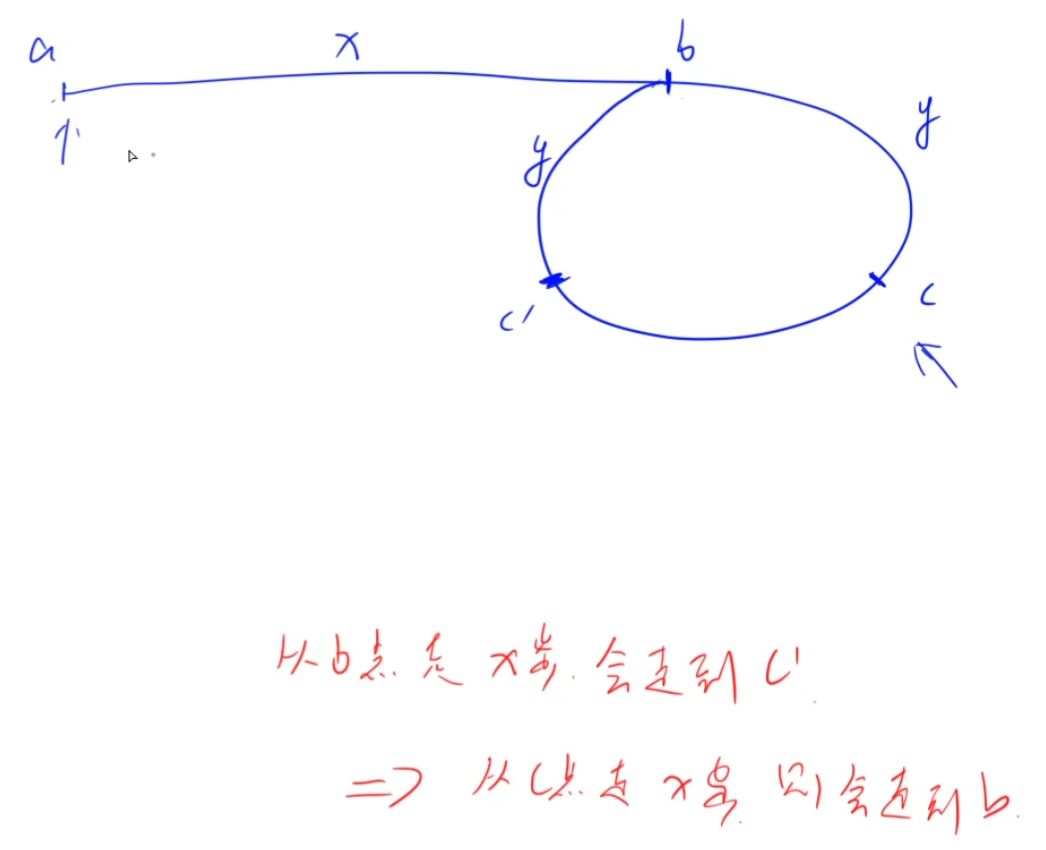
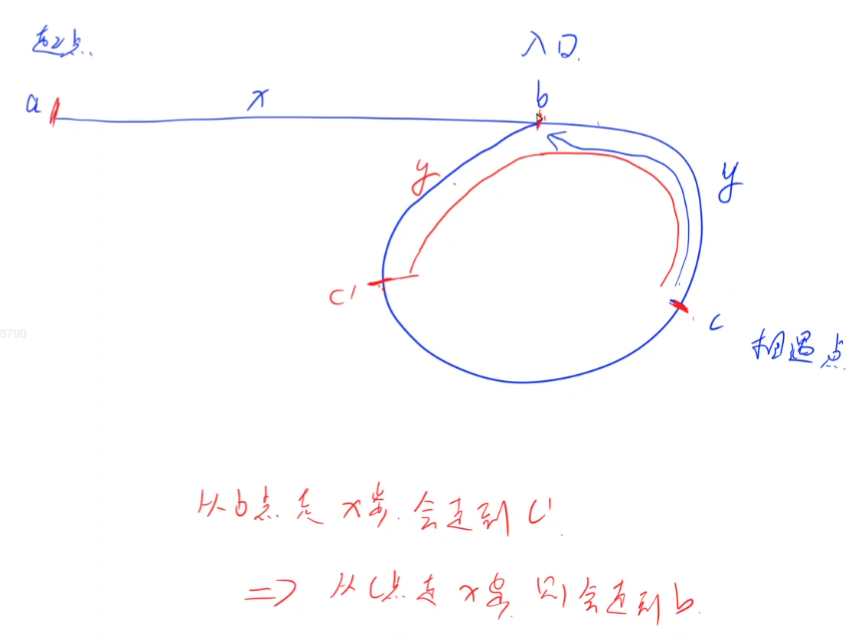
20230618

diff --git a/笔记/2.数据结构.md b/笔记/2.数据结构.md
@@ -327,11 +327,69 @@ public:
 - 与上一题完全相同
 
 :rocket:  **[LeetCode 876. 链表的中间节点](https://leetcode.cn/problems/middle-of-the-linked-list/)**
-- 注意针对链表中奇数个或偶数个元素进行分情况讨论循环终止条件
+- 方法一：先计算链表长度，然后再将指向头节点的指针向后移动长度的一半次
+- 方法二：快慢指针法，快指针的速度是慢指针的二倍，当快指针走到链表尾部时，慢指针指向的节点即为中间节点
+
+:rocket:  **[LeetCode 141. 环形链表](https://leetcode.cn/problems/linked-list-cycle/)**
+- 方法一：快慢双指针，快指针的速度是慢指针的二倍，如果链表中存在环，则快指针一定可以在套若干圈之后追上慢指针，题目也只要求判断是否有环，不要求找到环的入口节点，所以这种做法可以满足题意
+![](./图片2/环形链表.png)
+```C++
+if (!head || !head->next) return false;
+// 如果是空链表或链表中只有一个节点则一定无环
+auto p = head, q = head;
+
+// 做法一：进入循环时只判断快指针所指向的节点是否为空，因此不一定能连走两步
+// 必须先走一步判断是否为空才能决定能不能走下一步
+while (q){
+    p = p->next, q = q->next;
+    // 两个节点组成的链表可能有环也可能无环
+    if (!q) return false;
+    // 快慢指针同时向后移动一步之后先判断是否为空
+    // 防止由奇数个节点组成的无环链表连走两步时指针为空
+    q = q->next;
+    if (p == q) return true;
+    //如果快慢两个指针可以相遇则链表中一定有环
+}
+
+/*做法二：在进入循环时判断快指针的下一个节点是否为空
+while (q && q->next){
+    p = p->next, q = q->next->next;
+    // 在进入循环时已判断快指针的下一个节点是否为空，因此无论什么情况都可以连走两步
+    if (!q) return false;
+    if (p == q) return true;
+}
+*/
+return false;
+```
+
+- 方法二：哈希表，遍历链表，将每个节点的地址存入哈希表，如果遍历到的节点地址已经在哈希表中，则说明链表中存在环
+
+:rocket:  **[LeetCode 142. 环形链表 II](https://leetcode.cn/problems/linked-list-cycle-ii/)**
+- 快慢双指针，快指针的速度为慢指针速度的二倍。记快慢指针的相遇点为c点，记双指针同时出发的时刻为$t$<sub>1</sub>，记慢指针到达环形入口的时刻为$t$<sub>2</sub>，快慢双指针相遇的时刻为$t$<sub>3</sub>。$t$<sub>1</sub> ~ $t$<sub>2</sub>，慢指针a->b，快指针a->c'；$t$<sub>2</sub> ~ $t$<sub>3</sub>，慢指针b->c，快指针c'->c。所以当快慢指针相遇时，让其中一个指针回到原点，以同速前进，再次相遇时则为入口
+![](./图片2/环形链表2.png)
+- 快慢双指针可以采用上一题中第二种`while()`循环的方式，也作为一种模板记忆，所以就是在上一题当快慢指针相遇时，让慢指针回退到起点再以相同的速度前进，再次相遇即为环的入口
+```C++
+if (!head || !head->next) return NULL;
+auto p = head, q = head;
+while (q && q->next) {
+    p = p->next;
+    q = q->next->next;
+    if (!q) return NULL;
+    if (p == q) {
+        p = head;
+        while (p != q) {
+            p = p->next;
+            q = q->next;
+        }
+        return p;
+    }
+}
+return NULL;
+```
 
 :rocket:  **[LeetCode 160. 相交链表](https://leetcode.cn/problems/intersection-of-two-linked-lists/)**
-- 方法一：逻辑上把两个链表连接到一起
-- 方法二：先计算两条链表的长度，然后让双指针移动到距离链表尾部的距离相同的位置
+- 方法一：逻辑上把两个链表连接到一起，让两个指针分别从两个链表的头节点出发，当走到本链表尾节点时从另一个链表的头节点再出发，这样两个指针相遇(即指向相交节点)时走的距离一定相同
+![](./图片2/相交链表1.png)
 
 :rocket:  **[LeetCode 86. 分隔链表](https://leetcode.cn/problems/partition-list/)**
 - 归并排序思想
@@ -350,6 +408,8 @@ while (b) {
     a = b;
     b = c;
 }
+head->next = NULL;
+return a;
 ```
 - 方法三：递归法
 ![](./图片2/反转链表2.png)
@@ -383,48 +443,6 @@ return p;
 ```
 
 :rocket:  **[LeetCode 234. 回文链表](https://leetcode.cn/problems/palindrome-linked-list/)**
-
-:rocket:  **[LeetCode 141. 环形链表](https://leetcode.cn/problems/linked-list-cycle/)**
-![](./图片2/环形链表.png)
-```C++
-class Solution {
-public:
-    bool hasCycle(ListNode *head) {
-        if (!head || !head->next) return false;
-        //如果是空链表或链表中只有一个节点则一定无环
-        auto p = head, q = head;
-
-        //做法一：进入循环时只判断快指针所指向的节点是否为空，因此不一定能连走两步
-        //必须先走一步判断是否为空才能决定能不能走下一步
-        while (q){
-            p = p->next, q = q->next;
-            //两个节点组成的链表可能有环也可能无环
-            if (!q) return false;
-            //快慢指针同时向后移动一步之后先判断是否为空
-            //防止由奇数个节点组成的无环链表连走两步时指针为空
-            q = q->next;
-            if (p == q) return true;
-            //如果快慢两个指针可以相遇则链表中一定有环
-        }
-
-        /*做法二：在进入循环时判断快指针的下一个节点是否为空
-        while (q && q->next){
-            p = p->next, q = q->next->next;
-            //在进入循环时已判断快指针的下一个节点是否为空，因此无论什么情况都可以连走两步
-            if (!q) return false;
-            if (p == q) return true;
-        }
-        */
-
-        return false;
-    }
-};
-```
-
-:rocket:  **[LeetCode 142. 环形链表 II](https://leetcode.cn/problems/linked-list-cycle-ii/)**
-![](./图片2/环形链表2.png)
-- 假设慢指针到达环形入口的时刻为$t$<sub>2</sub>，快慢双指针相遇的时刻为$t$<sub>3</sub>。慢指针由b->c的过程，快指针由由c'->c；慢指针由a->b的过程，快指针由b->c'。所以当快慢指针相遇时，让其中一个指针回到原点，以同速前进，再次相遇时则为入口
-- 可以采用上一题中第二种`while()`循环的方式，也作为一种模板记忆
 
 ### 数组模拟栈与队列
 

diff --git a/笔记/1.基础算法.md b/笔记/1.基础算法.md
@@ -1154,7 +1154,7 @@ int main(void)
 
 :rocket:  **[LeetCode 27. 移除元素](https://leetcode.cn/problems/remove-element/)**
 - 找到不是目标值的元素用于覆盖，因此判断条件是不等于
-- 快慢双指针，快指针遍历给定数组的元素，慢指针指向当前不是目标元素的值
+- 快慢双指针，快指针遍历给定数组的元素，慢指针指向当前不是目标元素(也即符合题意的)的值
 
 :rocket:  **[LeetCode 283. 移动零](https://leetcode.cn/problems/move-zeroes/)**
 - 这连续的三道题几乎完全一样
@@ -1164,9 +1164,14 @@ int main(void)
 :rocket:  **[LeetCode 344. 反转字符串](https://leetcode.cn/problems/reverse-string/)**
 - 左右双指针，无需任何判断条件，直接交换即可
 
+:rocket:  **[剑指Offer 05. 替换空格](https://leetcode.cn/problems/ti-huan-kong-ge-lcof/)**
+- 方法一：开辟额外空间，遍历字符串，遇到空格则将`%20`添加到新`string`末尾，否则将原字符添加到新`string`末尾
+- 方法二：因为要将空格替换为`%20`，空间肯定不够，所以为了追求性能需要预先判断需要增加多少空间，然后再从后往前填充。
+- 从前向后填充，每次添加元素都要将添加元素之后的所有元素向后移动，这样的时间复杂度是`O(n^2)`；而从后向前填充，每次添加元素都只需要移动一次，时间复杂度是`O(n)`，因此从后向前填充是更好的选择
+
 :rocket:  **[LeetCode 977. 有序数组的平方](https://leetcode.cn/problems/squares-of-a-sorted-array/)**
 - 左右双指针，通过比较两个指针指向元素的平方大小来决定新数组中元素的位置
-- 可以在开辟新数组时指定大小关系，判断大小关系后即可逆序放入元素，这样可以避免使用`push_back`、`reverse`函数
+- 可以在开辟新数组时就指定空间大小，判断大小关系后即可逆序放入元素，这样可以避免使用`push_back`、`reverse`函数
 
 :rocket:  **[LeetCode 209. 长度最小的子数组](https://leetcode.cn/problems/minimum-size-subarray-sum/)**
 - 快慢双指针，以所寻找区间的右端点为快指针，区间的左端点为慢指针，将慢指针移动后的区间和与目标值进行比较，如果还满足条件，才可以移动慢指针
@@ -1182,10 +1187,54 @@ int main(void)
 - 有效的山脉数组要求左右两侧必须都有上升和下降的趋势，不能只有单侧，因此在移动完成后要注意判断条件
 
 :rocket:  **[LeetCode 15. 三数之和](https://leetcode.cn/problems/3sum/)**
-- 要求返回数组中的元素而不是数组元素的下标，因此可以对所给数组排序后使用左右双指针算法，因为题意要求三个数，双指针只能指向两个数，所以还需要一层`for`循环枚举一个数
+- 要求返回数组中的元素而不是数组元素的下标，因此可以对所给数组排序后使用左右双指针算法
+- 因为题意要求三个数，双指针只能指向两个数，所以还需要一层`for`循环枚举一个数
 
 :rocket:  **[LeetCode 18. 四数之和](https://leetcode.cn/problems/4sum/)**
 - 与上一题思路类似，因为是四个数求和，还需要两层`for`循环枚举两个数
+
+:rocket:  **[LeetCode 141. 环形链表](https://leetcode.cn/problems/linked-list-cycle/)**
+- 方法一：快慢双指针，快指针的速度是慢指针的二倍，如果链表中存在环，则快指针一定可以在套若干圈之后追上慢指针，题目也只要求判断是否有环，不要求找到环的入口节点，所以这种做法可以满足题意
+![](./图片2/环形链表.png)
+```C++
+if (!head || !head->next) return false;
+// 如果是空链表或链表中只有一个节点则一定无环
+auto p = head, q = head;
+
+// 做法一：进入循环时只判断快指针所指向的节点是否为空，因此不一定能连走两步
+// 必须先走一步判断是否为空才能决定能不能走下一步
+while (q){
+    p = p->next, q = q->next;
+    // 两个节点组成的链表可能有环也可能无环
+    if (!q) return false;
+    // 快慢指针同时向后移动一步之后先判断是否为空
+    // 防止由奇数个节点组成的无环链表连走两步时指针为空
+    q = q->next;
+    if (p == q) return true;
+    //如果快慢两个指针可以相遇则链表中一定有环
+}
+
+/*做法二：在进入循环时判断快指针的下一个节点是否为空
+while (q && q->next){
+    p = p->next, q = q->next->next;
+    // 在进入循环时已判断快指针的下一个节点是否为空，因此无论什么情况都可以连走两步
+    if (!q) return false;
+    if (p == q) return true;
+}
+*/
+return false;
+```
+
+- 方法二：哈希表，遍历链表，将每个节点的地址存入哈希表，如果遍历到的节点地址已经在哈希表中，则说明链表中存在环
+
+:rocket:  **[LeetCode 142. 环形链表 II](https://leetcode.cn/problems/linked-list-cycle-ii/)**
+- 快慢双指针，快指针的速度为慢指针速度的二倍。记快慢指针的相遇点为c点，记双指针同时出发的时刻为$t$<sub>1</sub>，记慢指针到达环形入口的时刻为$t$<sub>2</sub>，快慢双指针相遇的时刻为$t$<sub>3</sub>。$t$<sub>1</sub> ~ $t$<sub>2</sub>，慢指针a->b，快指针a->c'；$t$<sub>2</sub> ~ $t$<sub>3</sub>，慢指针b->c，快指针c'->c。所以当快慢指针相遇时，让其中一个指针回到原点，以同速前进，再次相遇时则为入口
+![](./图片2/环形链表2.png)
+- 快慢双指针可以采用上一题中第二种`while()`循环的方式，也作为一种模板记忆，所以就是在上一题当快慢指针相遇时，让慢指针回退到起点再以相同的速度前进，再次相遇即为环的入口
+
+:rocket:  **[LeetCode 160. 相交链表](https://leetcode.cn/problems/intersection-of-two-linked-lists/)**
+- 方法一：逻辑上把两个链表连接到一起，让两个指针分别从两个链表的头节点出发，当走到本链表尾节点时从另一个链表的头节点再出发，这样两个指针相遇(即指向相交节点)时走的距离一定相同
+![](./图片2/相交链表1.png)
 
 ### 位运算
 
